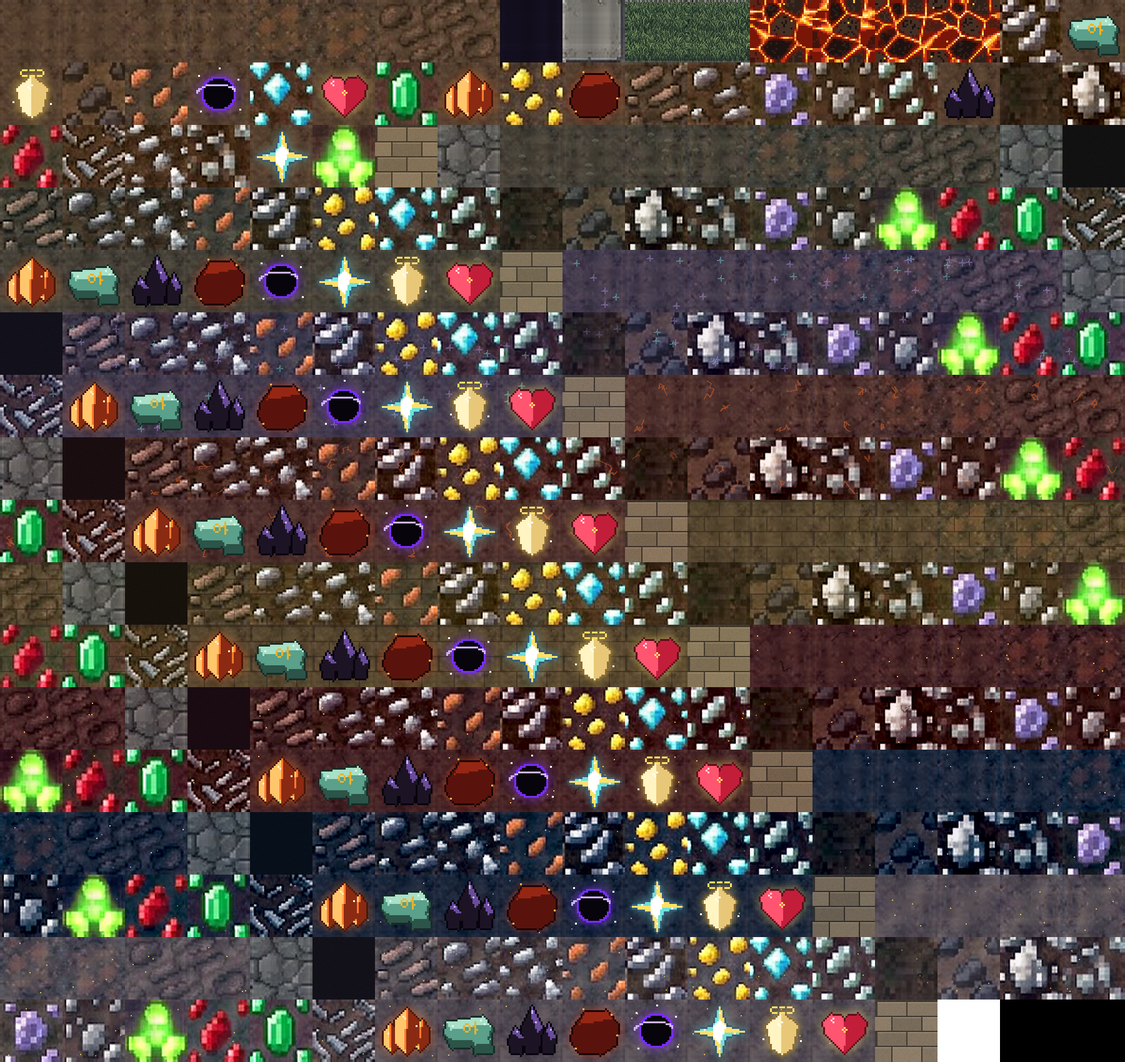
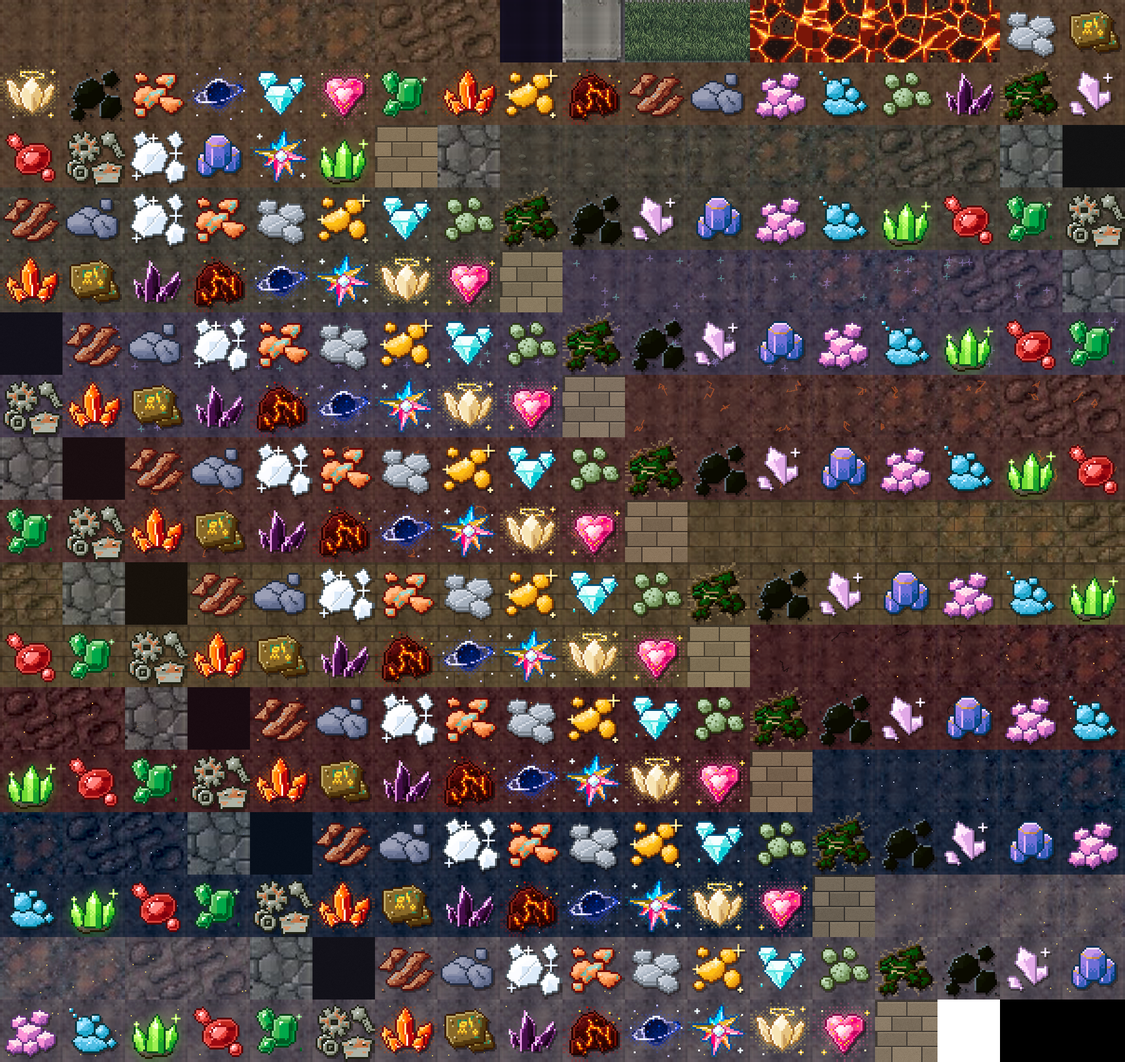
perf: атлас пересобран после слияния нового арта руд, генератор не берёт сам себя, цифры сборки
После слияния интеграционной ветки перерисованы все ore_*.png — атлас устарел, как и должен был
поймать test_perf. tools/gen_world_atlas.py пропускает собственный результат и сохраняет альфа-канал,
если у какого-то тайла он появится (сейчас все непрозрачные: атлас RGB, 2.0 МБ вместо 3.7).
Снимки слоя тайлов на слитом дереве по-прежнему совпадают пиксель в пиксель (13 из 13).
Веб-сборка одного и того же дерева: index.pck 26.10 -> 17.53 МБ, gzip всего 34.6 -> 26.1 МБ.

Claude-Session: https://claude.ai/code/session_0136gV4z446Ram1BD5cWLTAs

diff --git a/tools/gen_world_atlas.py b/tools/gen_world_atlas.py
@@ -47,22 +47,24 @@ def main() -> int:
 	entries = []  # (ключ, изображение 96x96 RGB)
 	for path in sorted(glob.glob(os.path.join(TILES, "*.png"))):
 		name = os.path.splitext(os.path.basename(path))[0]
-		im = Image.open(path).convert("RGB")
+		if name == "world_atlas":
+			continue   # сам результат
+		im = Image.open(path).convert("RGBA")
 		if im.size != (CELL, CELL):
 			print("пропущен %s: размер %s, не %dx%d" % (name, im.size, CELL, CELL))
 			continue
 		entries.append(("0/" + name, im))
 	for belt in range(1, 8):
-		src = Image.open(os.path.join(DEEP, "belt_%d.png" % belt)).convert("RGB")
+		src = Image.open(os.path.join(DEEP, "belt_%d.png" % belt)).convert("RGBA")
 		for i, name in enumerate(meta["names"]):
 			x = (i % b_cols) * b_stride + b_pad
 			y = (i // b_cols) * b_stride + b_pad
-			entries.append(("%d/%s" % (belt, name), src.crop((x, y, x + CELL, y + CELL))))
-	entries.append(("white", Image.new("RGB", (CELL, CELL), (255, 255, 255))))
+			entries.append(("%d/%s" % (belt, name), src.crop((x, y, x + CELL, y + CELL)).convert("RGBA")))
+	entries.append(("white", Image.new("RGBA", (CELL, CELL), (255, 255, 255, 255))))
 
 	rows = (len(entries) + COLS - 1) // COLS
 	stride = CELL + 2 * PAD
-	atlas = Image.new("RGB", (COLS * stride, rows * stride), (0, 0, 0))
+	atlas = Image.new("RGBA", (COLS * stride, rows * stride), (0, 0, 0, 255))
 	index = {}
 	for n, (key, im) in enumerate(entries):
 		cx, cy = (n % COLS) * stride, (n // COLS) * stride
@@ -70,6 +72,10 @@ def main() -> int:
 		arr = np.pad(np.asarray(im), ((PAD, PAD), (PAD, PAD), (0, 0)), mode="edge")
 		atlas.paste(Image.fromarray(arr), (cx, cy))
 		index[key] = n
+	# Непрозрачные тайлы (сейчас все) хранятся без альфа-канала: файл и видеопамять меньше. Появится
+	# прозрачный — атлас сам останется RGBA.
+	if int(np.asarray(atlas)[:, :, 3].min()) == 255:
+		atlas = atlas.convert("RGB")
 	out_png = os.path.join(TILES, "world_atlas.png")
 	atlas.save(out_png, optimize=True)
 	out_json = os.path.join(TILES, "world_atlas.json")

diff --git a/docs/GDD.md b/docs/GDD.md
@@ -1257,11 +1257,11 @@ UI полностью исчезает → управление автомати
 1. **`WorldView.render` — кольцевой пул и кэш окна.** Клетка (x, y) всегда лежит в одном и том же спрайте `(y mod строк, x mod столбцов)`, поэтому при прокрутке не трогается ни один спрайт, кроме входящей полосы. Перекрашивается только изменившееся: версия мира (`WorldGen.version`/`changes_since` — копка кладёт ключ клетки в кольцо на 128; обвал, землетрясение, загрузка, засыпка огорода, смена эпохи и хук `overlay` помечают «всё»), версия тумана (`FogOfWar.version`/`changed_since` — журнал реально открытых клеток), такт лавы (каждые 260 мс только у видимых клеток лавы, без строк). Неподвижный кадр не делает ничего. Overlay (кольца обзора, декор огорода, рамка копки) перерисовывается только при изменении; декор — только пока верх экрана выше клетки y=1
 2. **Страховка от правок мимо версии.** Раз в 2 кадра «в лоб» перепроверяется одна строка окна (`validate_every`): прямая запись в `world.diffs` или динамический `overlay` (ворота арены — `BossArena.sealed`) не поднимают версию, но лечатся за ≤ 0.6 с. Явные пути (копка, обвал, землетрясение…) тест проверяет с выключенной страховкой
 3. **После «менялось всё» окно красится по бюджету** (`stale_budget_us` = 4 мс на кадр, строки от центра наружу). Обвал сбрасывает кэш клеток всего мира, и перекраска окна на холодном кэше стоила 20–27 мс одним кадром на глубине (на телефоне ×3–4); теперь кадр обвала ≤ 7 мс, пока на экране прежняя картинка и пыль обвала. Первый показ и телепорт красятся сразу (экран иначе пустой)
-4. **Единый атлас тайлов мира** (`tools/gen_world_atlas.py` → `art/tiles/world_atlas.png` 1800×1700, `world_atlas.json`): все тайлы поясов 0–7 и белая заливка тумана — вырезки одной текстуры, поэтому слой мира идёт почти одним пакетом отрисовки (`WorldView` 22–125 draw calls → 11–18). Шаг нарезки тот же (cell 96, pad 2), фильтр ближайший. Нет файла атласа — `TileArt` работает по-старому. Тест `test_perf` сверяет каждую клетку атласа с исходным тайлом и падает «перегенерируй», если исходник изменили. Исходные `belt_*.png` из экспорта исключены
+4. **Единый атлас тайлов мира** (`tools/gen_world_atlas.py` → `art/tiles/world_atlas.png` 1800×1700, `world_atlas.json`): все тайлы поясов 0–7 и белая заливка тумана — вырезки одной текстуры, поэтому слой мира идёт почти одним пакетом отрисовки (`WorldView` 22–125 draw calls → 11–18). Шаг нарезки тот же (cell 96, pad 2), фильтр ближайший. Нет файла атласа — `TileArt` работает по-старому. Тест `test_perf` сверяет каждую клетку атласа с исходным тайлом и падает «перегенерируй», если исходник изменили (так и вышло после слияния нового арта руд — атлас пересобран). **Любая правка `art/tiles/*.png` и `art/tiles/deep/belt_*.png` требует `python3 tools/gen_world_atlas.py` и коммита атласа**, иначе игра покажет старый рисунок. Исходные `belt_*.png` из экспорта исключены
 5. **Туман.** `reveal_around` не считает покрытие у уже открытых клеток и вне хорды круга (результат тот же — тест сверяет с прежним алгоритмом на 160 случайных вызовах), а тот же вызов при той же версии пропускается: 213 → 12 мкс на неподвижном кадре
 6. **Лишнее ушло из кадра.** Движок включает `_process` при входе в дерево, а `visibility_changed` молчит до первого показа, поэтому скрытые с самого начала панели прокачки и музея крутили `_process` (≈ 120 мкс на кадр): одна строка `set_process(is_visible_in_tree())` в пяти файлах и `_ready` у плитки музея. Небо под землёй (верх экрана ниже травы) не считается и не рисуется, днём не тикают 420 звёзд. Свечение лавы (`TechWorld`) берёт список клеток у `WorldView.lava_cells()` вместо обхода окна `get_tile` + туман (0.55 мс каждые 0.2 с — периодический подвис, теперь 2 мкс)
 7. **Окно браузера и поворот телефона.** Пул растёт по `size_changed` (раньше после растяжения вьюпорта справа и снизу оставались пустые полосы)
-8. **Сборка.** Из экспорта выброшены `art/_source/*` (8.2 МБ ctex исходных JPG, в игре не нужны), превью и `belt_*.png`: **`index.pck` 33.97 → 18.98 МБ, к скачиванию (gzip) 42.4 → 27.6 МБ**. Все текстуры уже `compress/mode=0` (без потерь) и `mipmaps/generate=false` — менять нечего, VRAM-сжатие для пиксель-арта не включаем
+8. **Сборка.** Из экспорта выброшены `art/_source/*` (8.2 МБ ctex исходных JPG, в игре не нужны), превью и `belt_*.png`: **`index.pck` 26.10 → 17.53 МБ, к скачиванию (gzip) 34.6 → 26.1 МБ**. Все текстуры уже `compress/mode=0` (без потерь) и `mipmaps/generate=false` — менять нечего, VRAM-сжатие для пиксель-арта не включаем
 
 **До / после** (настольный CPU, headless):
 
@@ -1282,7 +1282,7 @@ UI полностью исчезает → управление автомати
 | узлов в сцене / объектов | 1 284 / 6 016 | 1 284 / 6 297 (+304 `AtlasTexture`) |
 | `MEMORY_STATIC` (headless) | 165 МБ | 181 МБ (атлас: +12–16 МБ видеопамяти на телефоне) |
 | запуск: `boot_to_4_frames` / `godot --headless --quit-after 5` | 3.25 с / 5.43 с | 3.39 с / 5.64 с (+0.15 с — разбор атласа ~75 мс) |
-| `index.pck` / gzip всего | 33.97 / 42.4 МБ | **18.98 / 27.6 МБ** |
+| `index.pck` / gzip всего (одно и то же дерево кода и арта) | 26.10 / 34.6 МБ | **17.53 / 26.1 МБ** |
 | сессия 5 игровых минут: узлов / объектов / сирот | — | 1 382 → 1 385 / 6 642 → 6 705 (+1%) / 0 |
 
 Картинка: 13 снимков слоя тайлов (поверхность; глубины 5/300/1200/3100/6000/9000 стоя и после прохода с копкой и туманом, то есть инкрементальный путь) при окне 1×, 2× и 3× совпали **пиксель в пиксель**. При масштабе окна 1.5× «ближайший» на целой границе текселя берёт соседний тексель: картинка та же, сдвиг на тексель (среднее расхождение ≈ 2 из 255); на реальных телефонах масштаб почти никогда не равен 1.5. SwiftShader: 224×480 — ходьба 17.4 → 22.4 к/с, копка 17.2 → 18.7 (медианы по 3); 448×960 — 5.9 → 7.7 и 8.1 → 7.3, то есть в шуме: там упор в программную растеризацию, а не в скрипты. Реальный телефон не проверялся.
